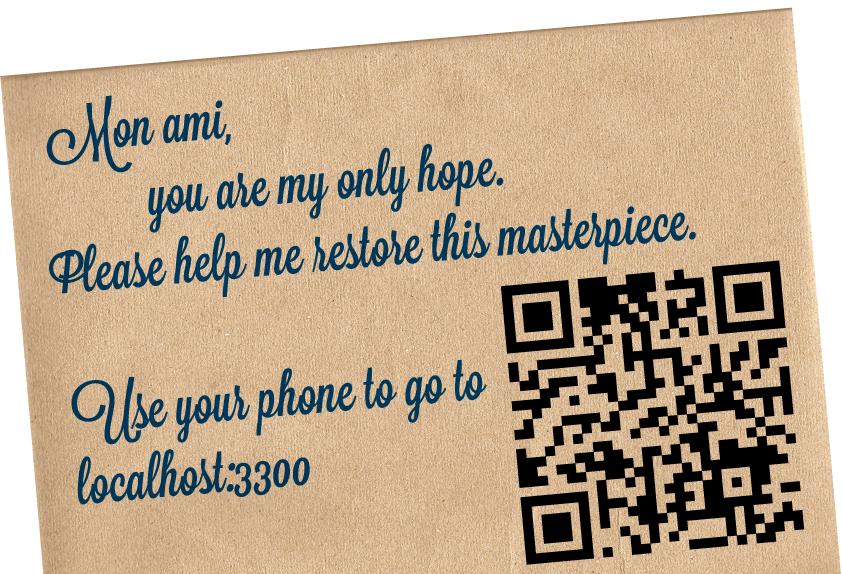
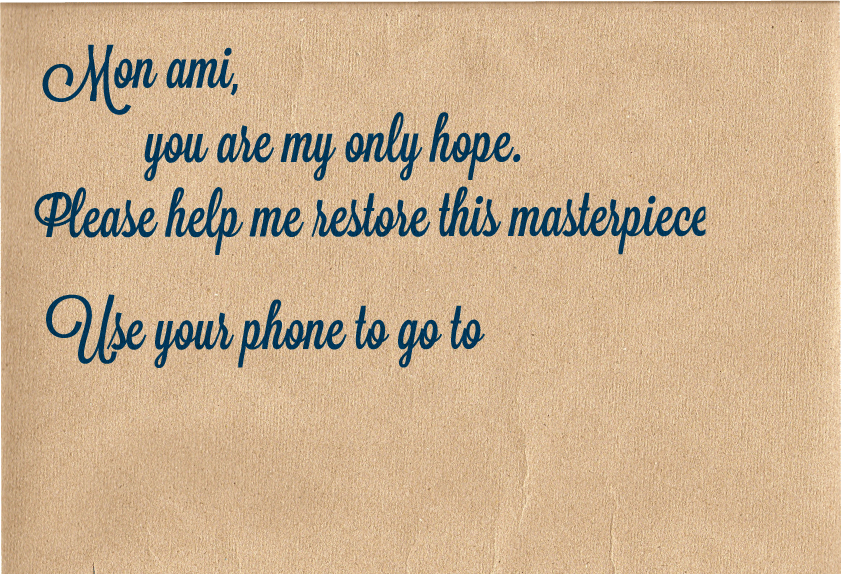
Ip on host draw in letter.

diff --git a/src/static/js/host/draw.js b/src/static/js/host/draw.js
@@ -1,5 +1,6 @@
 var timer = document.getElementById("timer");
 var levelTimeout = 0;
+var ipSpan = document.getElementById("ip");
 
 var picuture = document.getElementById("picuture");
 
@@ -30,7 +31,6 @@ function updateCurrentLevel() {
  }
 
 
-
 function setCurrentLevel(level) {
     console.log("Setting level")
     level = JSON.parse(level)
@@ -44,6 +44,24 @@ function setCurrentLevel(level) {
     //canvas = overlayOnImage(level.image, level.overlay, level.x, level.y)
     //picture.src = canvas.toDataURL();
 
+}
+
+function getIP() {
+    var request = new XMLHttpRequest();
+    request.onreadystatechange = function() {
+        if (this.readyState == 4 && this.status == 200) {
+            showIP(this.responseText)
+        }
+    };
+    request.open("GET", "/api/ip", false);
+    request.setRequestHeader("Content-Type", "application/x-www-form-urlencoded");
+    request.send();
+}
+
+function showIP(text)
+{
+    console.log(text)
+    ipSpan.innerText = text;
 }
 
 updateCurrentLevel()

diff --git a/src/static/css/host/draw.css b/src/static/css/host/draw.css
@@ -20,6 +20,8 @@ body {
 #letter {
     position: absolute;
 
+    transform: rotate(-2deg);
+
     right: 180px;
     bottom: 0px;
     width: 600px;
@@ -27,6 +29,18 @@ body {
 
     background: url(/img/misc/letter.png) no-repeat;
     background-size: contain;
+}
+
+#ip {
+    position: absolute;
+    font-size: 32px;
+    color: darkblue;    
+    text-align: center;
+    font-family: sans-serif;
+    vertical-align: bottom;
+    
+    bottom: 50px;
+    left: 40px;
 }
 
 #timer {

diff --git a/src/static/html/host/draw.html b/src/static/html/host/draw.html
@@ -2,9 +2,9 @@
     <link rel="stylesheet" type="text/css" href="/css/host/draw.css">
 </head>
 
-<body>
+<body onload="getIP()">
 
-    <div id="letter"></div>
+    <div id="letter"><div id="ip">192.168.X.X</div></div>
 
     <div id="clock">
         <div id="timer">60</div>
